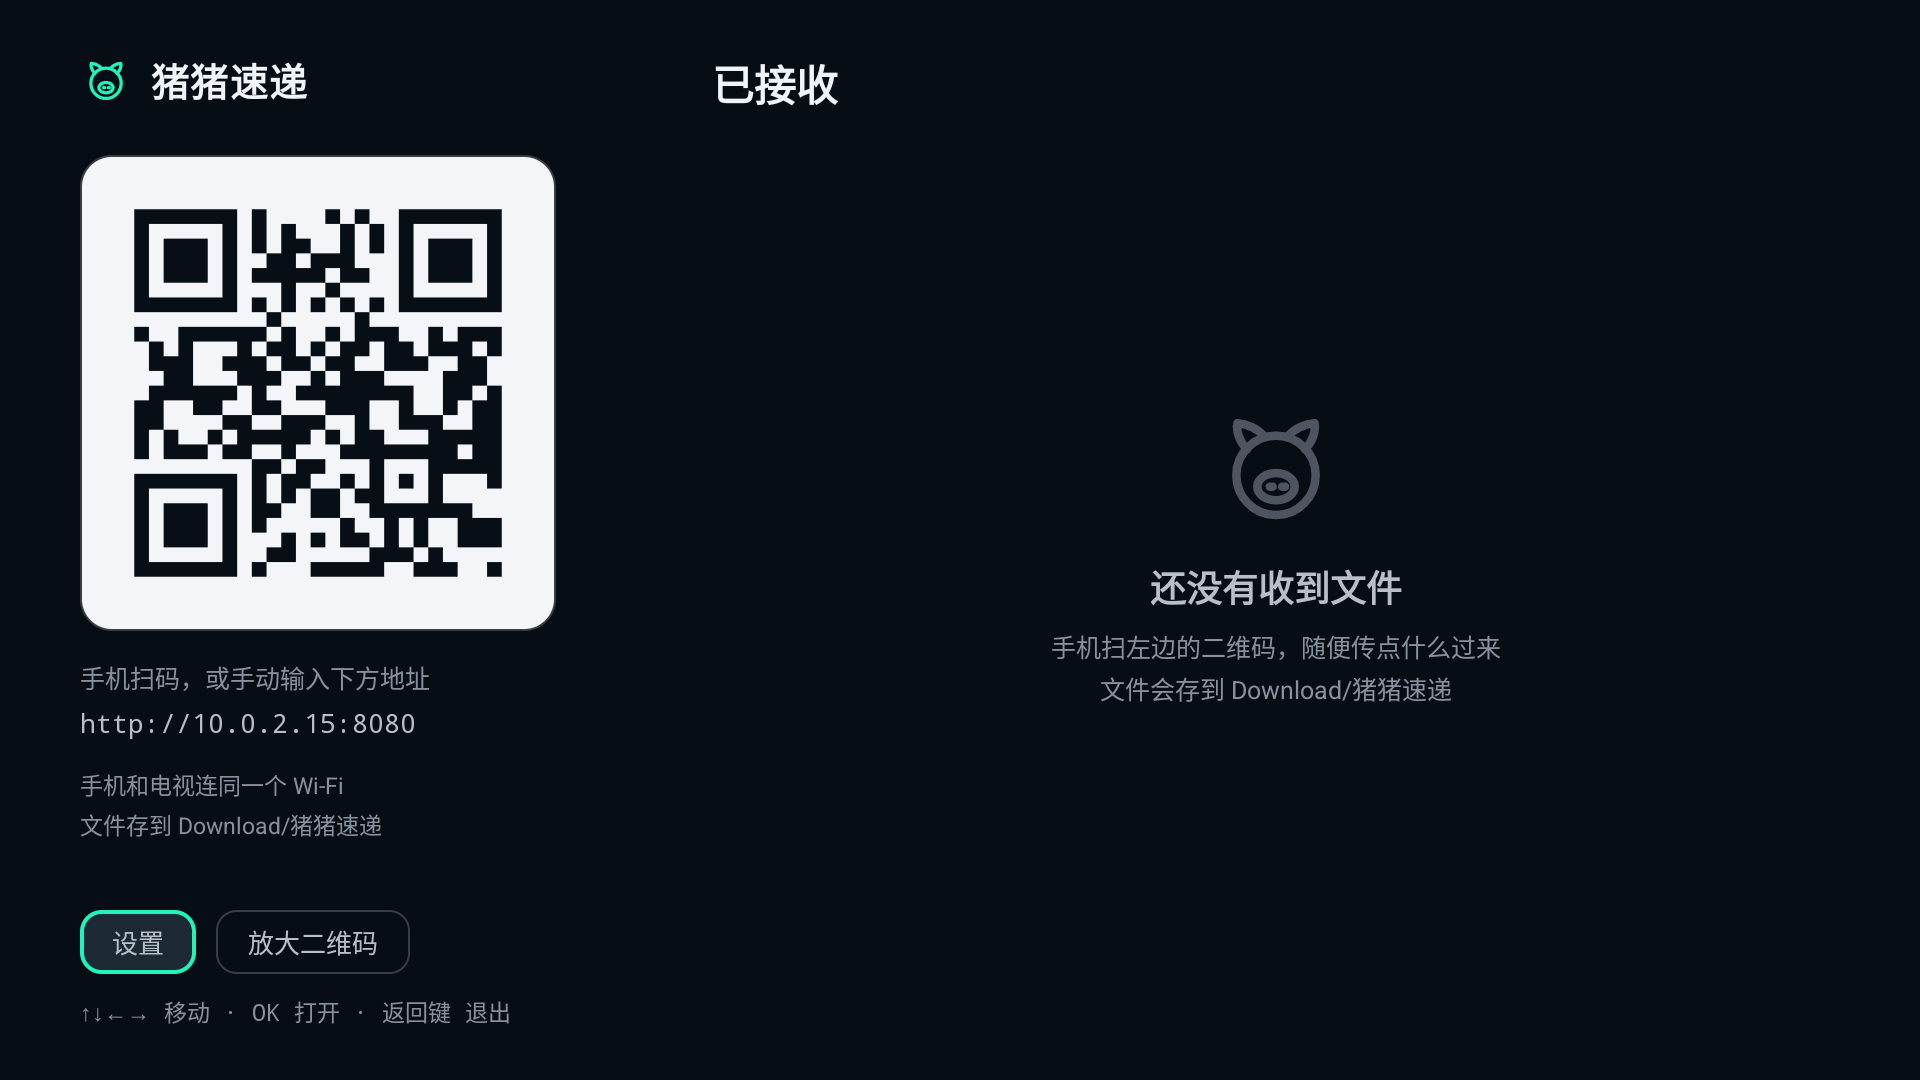
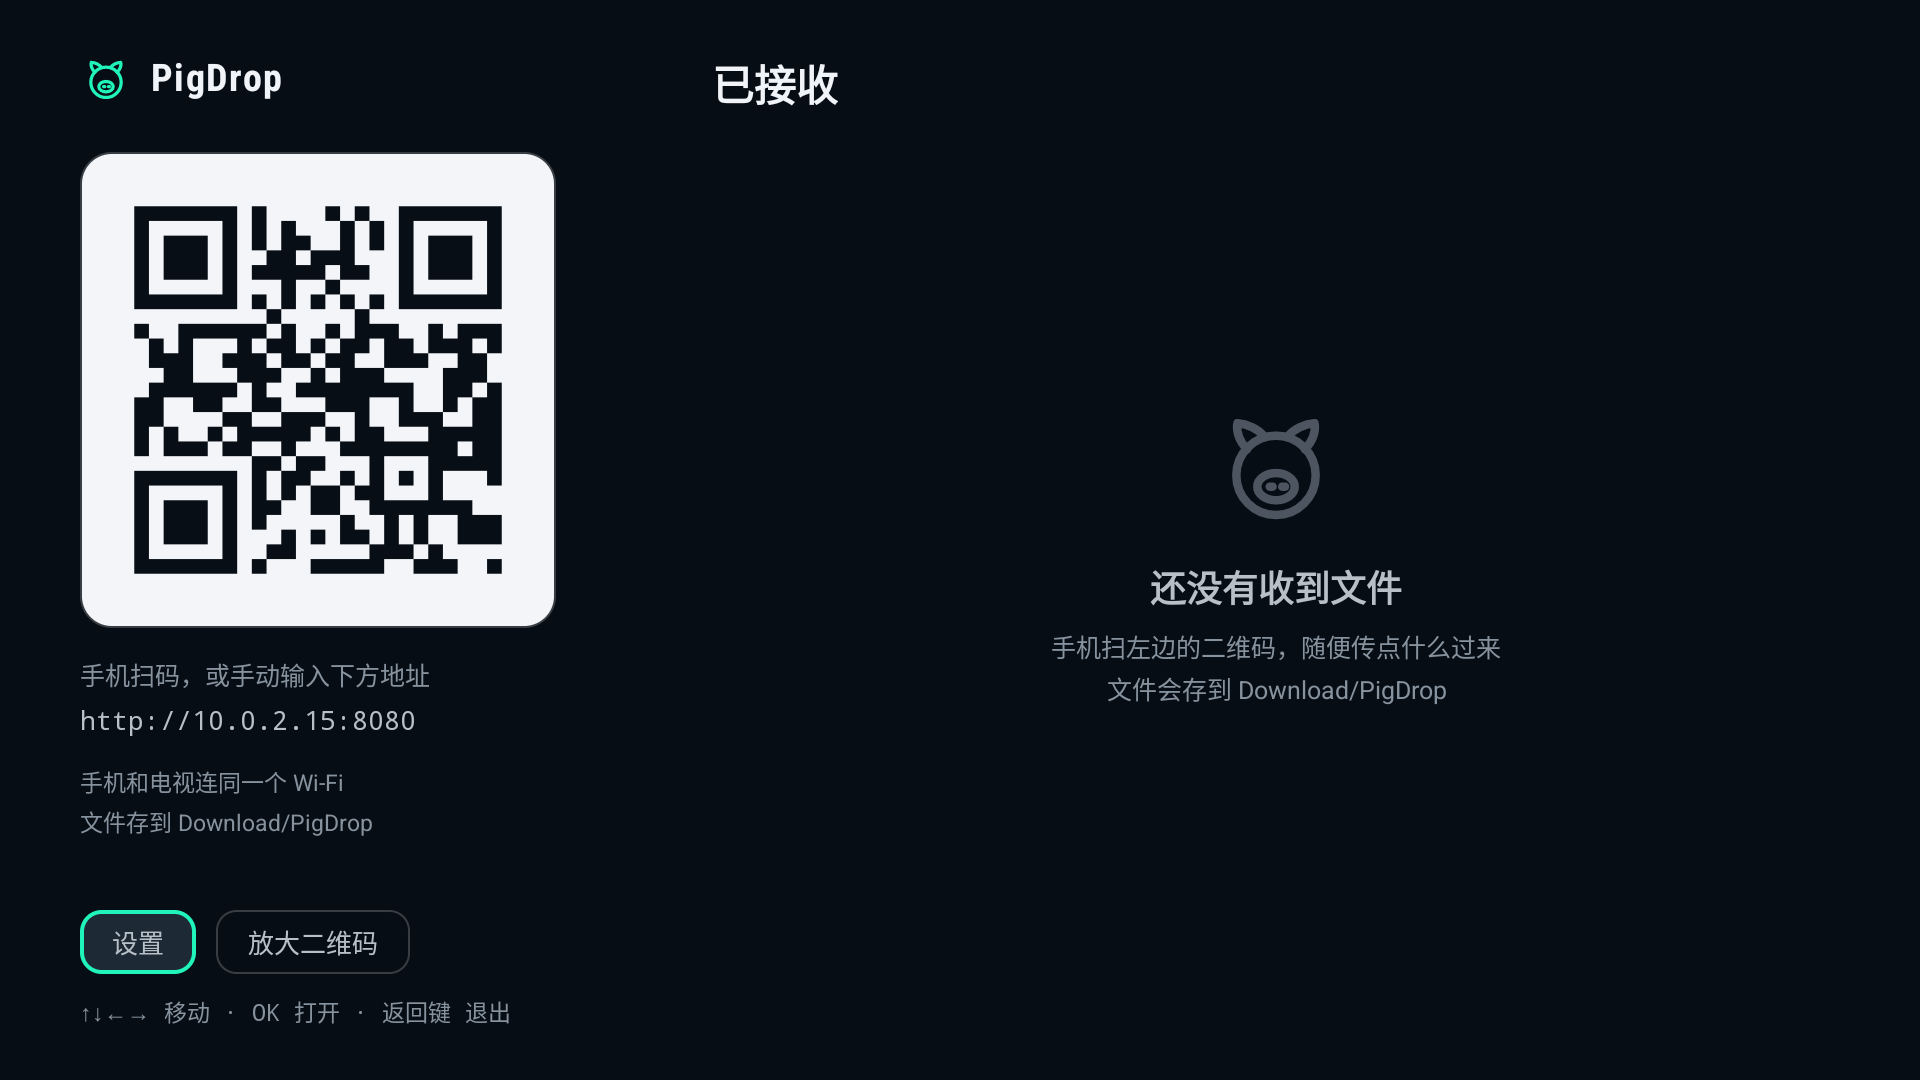
feat: 应用显示名改为 PigDrop，并补上正式签名
桌面上显示的、界面上露出来的、手机上传页上的名字，现在统一成 PigDrop。
中文名「猪猪速递」保留作为别名，不再出现在界面里。

- strings.xml: app_name → PigDrop（桌面名、窗口标题都吃这个）
- BRAND 常量 → PigDrop（左侧品牌、手机页 <title> 与页头）
- 下载目录 Download/猪猪速递 → Download/PigDrop，file_paths.xml 的 FileProvider
  路径同步改（同名迁移成本为零，还没有真实用户）
- release 构建补签名配置：读根目录 keystore.properties，文件缺失时回落到
  debug 签名，保证克隆下来也能 assembleRelease
- 新增 proguard-rules.pro：NanoHTTPD / ZXing 的反射入口 keep 住，避免 R8 后
  服务起不来（release 包从 2.44 MB 降到 329 KB）
- .gitignore 忽略 keystore.properties 与 *.jks，仓库里不留密钥
- README 补「下载安装」一节与 release 构建说明
- 七张截图按新名字重拍

29 条单元测试仍全绿；release 包在模拟器上跑通上传 / 打开 / 删除 / 管理 / 两套主题。

diff --git a/android/app/src/main/java/com/zhuzhu/sudi/store/Storage.kt b/android/app/src/main/java/com/zhuzhu/sudi/store/Storage.kt
@@ -18,7 +18,7 @@ import java.io.OutputStream
 /**
  * 文件落地。
  *
- * 用户选的是「系统下载目录」，所以优先写 `Download/猪猪速递/`——电视自带的文件管理器
+ * 用户选的是「系统下载目录」，所以优先写 `Download/PigDrop/`——电视自带的文件管理器
  * 能看到、能往 U 盘拷。三档策略，从好到次：
  *
  * 1. **Android 10+**：走 MediaStore，不需要任何存储权限，文件对其它应用可见；
@@ -205,7 +205,7 @@ class Storage(private val context: Context) {
     }
 
     companion object {
-        const val FOLDER = "猪猪速递"
+        const val FOLDER = "PigDrop"
         private const val PRIVATE_DIR = "received"
     }
 }

diff --git a/android/app/src/main/java/com/zhuzhu/sudi/MainActivity.kt b/android/app/src/main/java/com/zhuzhu/sudi/MainActivity.kt
@@ -584,7 +584,8 @@ class MainActivity : Activity(), FileListView.Listener {
     companion object {
         private const val DEFAULT_PORT = 8080
         private const val REQ_STORAGE = 1001
-        private const val BRAND = "猪猪速递"
+        // 对外品牌名，落盘目录名见 Storage.FOLDER，两者保持一致
+        private const val BRAND = "PigDrop"
 
         /** 只会「接住就退出」的占位包，不能算作能打开文件的应用。 */
         private val STUB_PACKAGES = setOf("com.android.tv.frameworkpackagestubs")

diff --git a/android/app/src/main/java/com/zhuzhu/sudi/core/Record.kt b/android/app/src/main/java/com/zhuzhu/sudi/core/Record.kt
@@ -4,7 +4,7 @@ package com.zhuzhu.sudi.core
  * 一条已接收记录。
  *
  * [uri] 是打开文件时要用的地址：Android 10+ 是 `content://media/...`（MediaStore），
- * 更低版本是 `file:///storage/emulated/0/Download/猪猪速递/xxx`（走 FileProvider 授权）。
+ * 更低版本是 `file:///storage/emulated/0/Download/PigDrop/xxx`（走 FileProvider 授权）。
  * 两种情况都存字符串，索引文件才能原样落盘。
  */
 data class Record(

diff --git a/README.md b/README.md
@@ -1,4 +1,6 @@
-# 猪猪速递
+# PigDrop
+
+> 中文名「猪猪速递」。应用桌面显示名、手机上传页标题统一为 **PigDrop**，下载目录是 `Download/PigDrop/`。
 
 电视上打开应用，屏幕上就是一个二维码。手机扫一下，浏览器里选文件，文件直接落到电视的「下载」目录。
 
@@ -18,7 +20,7 @@
 ## 怎么用
 
 1. 电视和手机连同一个 Wi-Fi。
-2. 电视上打开「猪猪速递」，左边就是二维码和地址。
+2. 电视上打开「PigDrop」，左边就是二维码和地址。
 3. 手机扫码（或手动输入 `http://电视IP:8080`），页面上点「选择文件」。
 4. 传完文件出现在电视列表里，手机上也能看到「电视上已有」的清单。
 
@@ -58,23 +60,39 @@
 - **打不开时说人话**：电视上没有对应应用时，按文件类型给下一步建议，而不是弹一句英文 toast 或者干脆没反应。
 - **Android 6.0 起**（API 23），同时出 `armeabi-v7a` 和 `arm64-v8a` 两个包。
 
+## 下载安装
+
+到 [Releases](https://github.com/andyzhang1214/Pig-Drop/releases) 下对应架构的 APK：
+
+| 机型 | 文件 |
+|---|---|
+| 近几年的电视 / 盒子（64 位） | `PigDrop-1.0.0-arm64-v8a.apk` |
+| 老电视、老盒子（32 位） | `PigDrop-1.0.0-armeabi-v7a.apk` |
+
+分不清就装 `arm64-v8a`，装不上再试另一个。
+
+装到电视：`adb install PigDrop-1.0.0-arm64-v8a.apk`，或者拷到 U 盘用电视自带的文件管理器打开。包已用正式密钥签名，不是 debug 包。
+
 ## 自己构建
 
 需要 JDK 17+ 和 Android SDK（Platform 36）。
 
 ```bash
 cd android
-./gradlew :app:assembleDebug
+./gradlew :app:assembleRelease      # 正式包
+./gradlew :app:assembleDebug        # 调试包
 ```
 
 产物：
 
 ```
-android/app/build/outputs/apk/debug/app-arm64-v8a-debug.apk
+android/app/build/outputs/apk/release/app-arm64-v8a-release.apk
+android/app/build/outputs/apk/release/app-armeabi-v7a-release.apk
+android/app/build/outputs/apk/debug/app-arm64-v8a-debug.apk        # 调试用
 android/app/build/outputs/apk/debug/app-armeabi-v7a-debug.apk
 ```
 
-装到电视：`adb install app-arm64-v8a-debug.apk`，或者拷到 U 盘在电视上装。
+签名信息读工程根目录的 `keystore.properties`（已在 `.gitignore` 里，仓库不含密钥）。文件不存在时 release 自动回落到 debug 签名，克隆下来照样能构建——只是签名不同，不能覆盖安装官方包。
 
 跑单元测试：
 
@@ -103,7 +121,7 @@ screenshots/
 
 **为什么不用 `multipart/form-data`。** 传一个 4 GB 的电影时，multipart 要么整包读进内存，要么先落一份临时文件再搬。这里用 `PUT /upload?name=<文件名>` 加裸 body，`Content-Length` 已知就一路 `copy` 到底。
 
-**为什么存储有三档降级。** API 29+ 走 MediaStore 写进系统下载目录（不申请权限）；API 23–28 只能直接写公共 `Download/猪猪速递/`（需要 `WRITE_EXTERNAL_STORAGE`）；权限被拒就退到应用私有目录，功能不残废只是位置变了。设置面板里显示的「保存位置」就是当前实际生效的那一档。
+**为什么存储有三档降级。** API 29+ 走 MediaStore 写进系统下载目录（不申请权限）；API 23–28 只能直接写公共 `Download/PigDrop/`（需要 `WRITE_EXTERNAL_STORAGE`）；权限被拒就退到应用私有目录，功能不残废只是位置变了。设置面板里显示的「保存位置」就是当前实际生效的那一档。
 
 **为什么自己发号。** 最初用 `max(当前时间戳, 已有最大 id + 1)` 生成 id，两个手机同时传文件会算出**同一个 id**。而删除是按 id 过滤的，撞号就会连带删掉别人的文件（实测 30 路并发出现 4 对重复 id，删一个少了两个）。改成单调发号器，启动时用历史最大 id 播种。
 
@@ -118,7 +136,7 @@ screenshots/
 - 只能同局域网，跨网段/VLAN 不通。
 - 没有断点续传，传一半断开要重传。
 - 只在 API 34 的 Android TV 模拟器上验证过完整流程（含 30 路并发压测）；API 23–28 那两档存储降级路径没有真机跑过。
-- 目前只有 debug 包，没有做 release 签名。
+- 仓库里的截图来自一台 1080p 的 API 34 模拟器，真实电视上的字体渲染可能有细微差异。
 - 手机端上传页不超过 6 条「电视上已有」的预览，只是清单，不能管理文件。
 
 ## 设计记录

diff --git a/design/DESIGN.md b/design/DESIGN.md
@@ -2,8 +2,12 @@
 
 > 本文件由 impeccable 技能要求维护，记录本项目的设计上下文与原则。新增界面或改版前先读这里。
 
-**产品名：猪猪速递 / Piggy Express**
+**产品名：PigDrop（中文名仍叫猪猪速递）**
 一句话：电视端开机即成为一个局域网接收站，屏幕显示二维码；手机扫码打开网页直接上传，手机不装任何 App。
+
+> 命名变更：对外显示名统一成 `PigDrop`（应用桌面名、界面品牌、手机页标题、下载目录 `Download/PigDrop/`），
+> 中文名「猪猪速递」保留作为中文别名，不再出现在界面上。本文档下方保留设计期的原始称呼，便于对照当时的决策。
+
 
 ## Design Context
 
